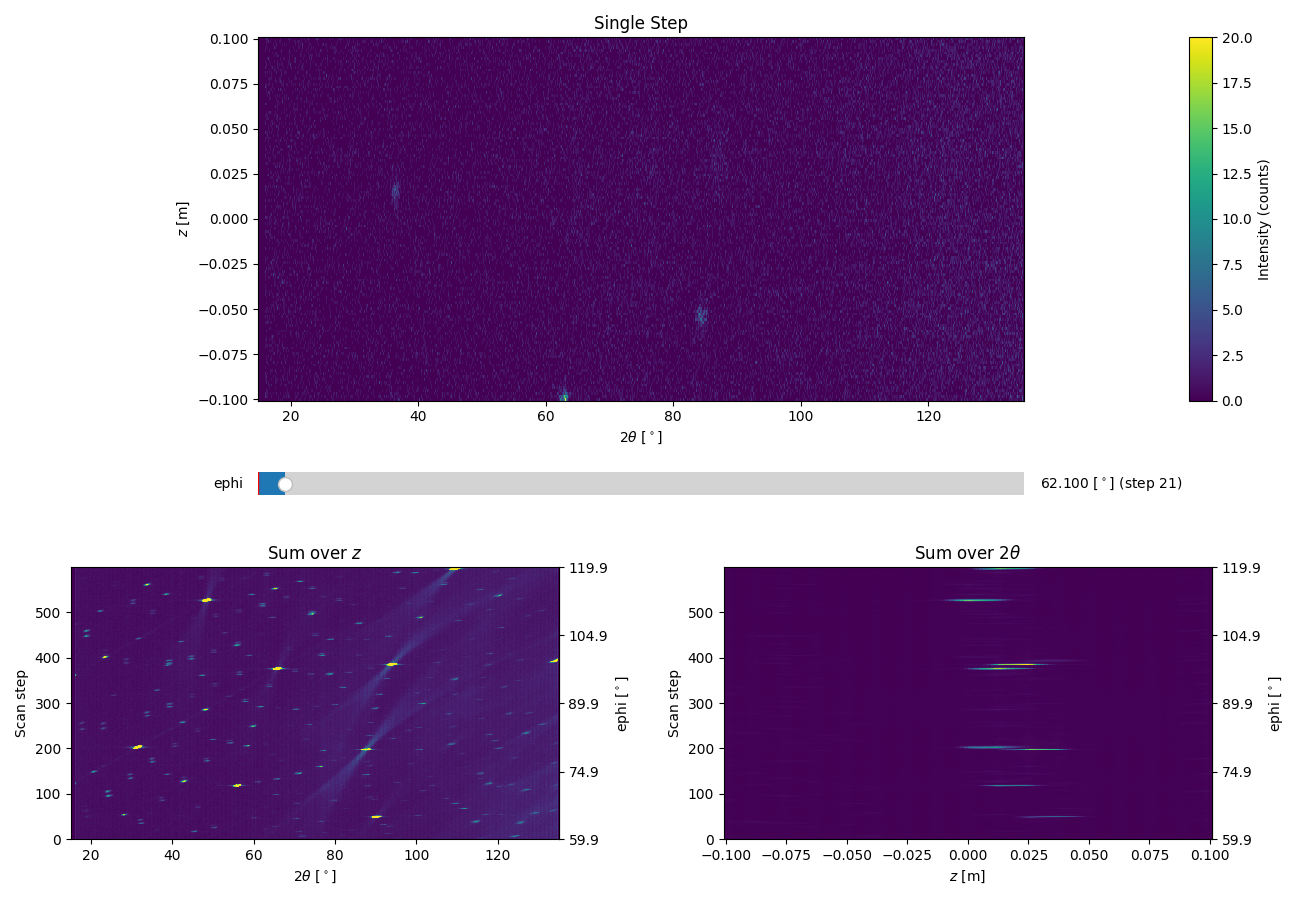
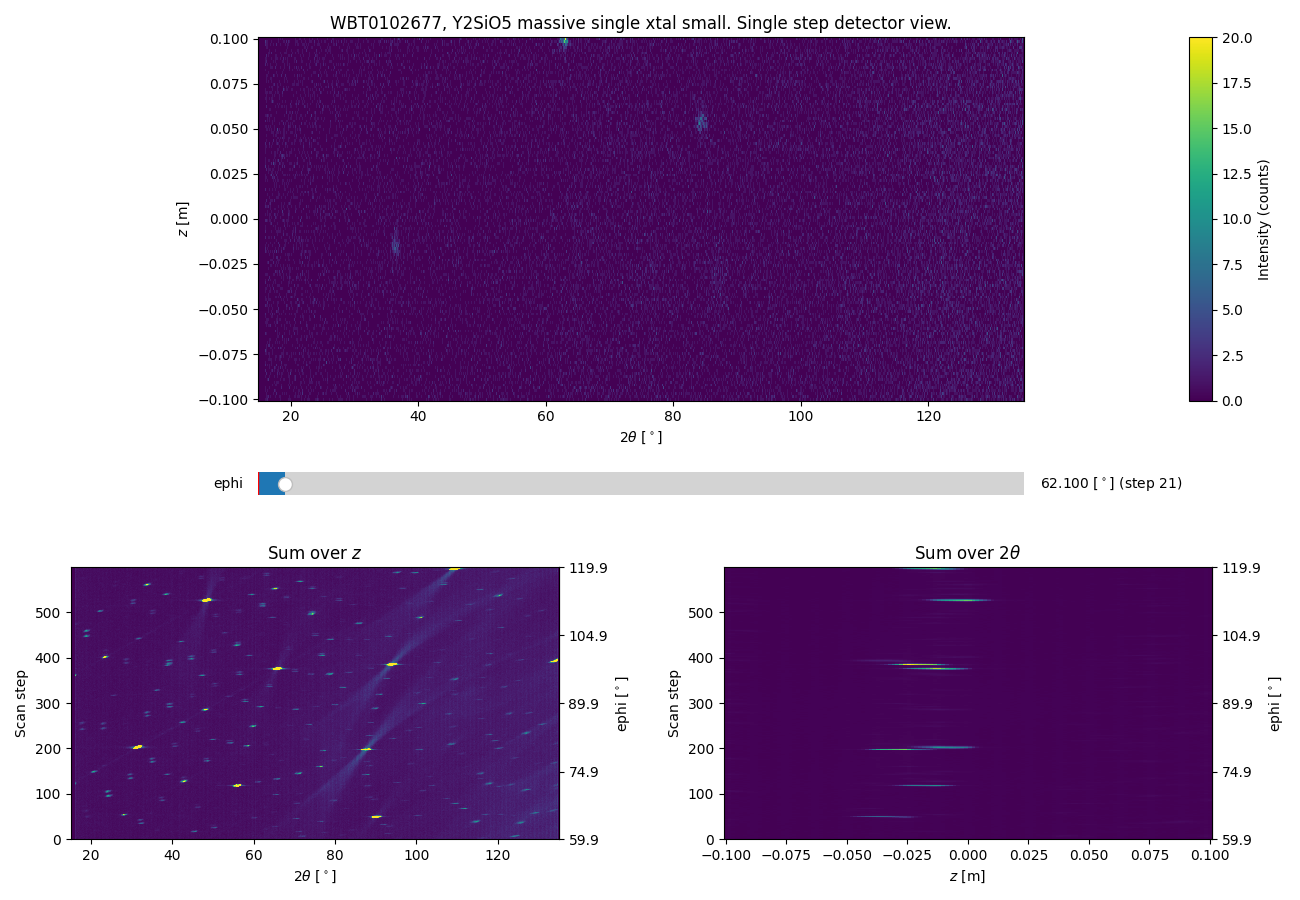
realised xy histogram was being loaded flipped upside down verticallygit add . fixed that (changed definition of z linspace) and added title to interactive detector view plot

diff --git a/wombatDMCpy/WombatDataFile.py b/wombatDMCpy/WombatDataFile.py
@@ -244,6 +244,8 @@ class WombatDataFile(object):
         print()
         print('~~~~~~~ DMCpy x Wombat: loading single crystal data file {0} ~~~~~~~'.format(file))
         self.fileType = 'WombatDataFile'
+        self.hdfFileName = file[-17:-7] 
+        print('HDF file name = {0}'.format(self.hdfFileName))
         self._twoThetaOffset = 0.0
         self._wavelength = wavelength if wavelength is not None else 2.41
         self._Ki = 2*np.pi/wavelength
@@ -299,6 +301,7 @@ class WombatDataFile(object):
             for parameter in HDFTranslation.keys():
                 if parameter in ['unitCell','sample','unitCell','wavelength','verticalPosition']:
                     continue
+
                 if parameter in HDFTranslationAlternatives:
                     for entry in HDFTranslationAlternatives[parameter]:
                         value = np.array(f.get(entry))
@@ -325,6 +328,11 @@ class WombatDataFile(object):
                         value = getattr(value,func)(*args)
                 
                 setattr(self,parameter,value)
+                if parameter == 'sampleName':
+                    print('Sample name = {0} \n'.format(self.sampleName))
+                else:
+                    pass
+                
             
             if self.sampleRotationAxis == 'ephi':
                 self.sample.rotation_angle = 'euler_phi'
@@ -473,7 +481,12 @@ class WombatDataFile(object):
     def verticalPosition(self,twoTheta):
         repeats = self.countShape[1]
         # for Wombat, detector height is 20cm so +- 0.1 m
-        self._verticalPosition = np.linspace(-0.1,0.1,128,endpoint=True)
+        self._verticalPosition = np.linspace(0.1,-0.1,128,endpoint=True)
+        # for wombat:
+        # originally had the linspace starting at -0.1 and finishing at 0.1
+        # as per below line of code
+        # but this meant the detector was flipped vertically!!!!!!
+        #self._verticalPosition = np.linspace(-0.1,0.1,128,endpoint=True)
 
     @property
     def wavelength(self):
@@ -920,7 +933,7 @@ class WombatDataFile(object):
     def InteractiveViewer(self,**kwargs):
         if not self.fileType.lower() in ['singlecrystal','powder'] :
             raise AttributeError('Interactive Viewer can only be used for the new data files. Either for powder or for a single crystal A3 scan')
-        return InteractiveViewer.InteractiveViewer(self.intensity,self.twoTheta,self.pixelPosition,self.A3,scanParameter = 'A3',scanValueUnit=r'$^\circ$',colorbar=True,**kwargs)
+        return InteractiveViewer.InteractiveViewer(self.intensity,self.twoTheta,self.pixelPosition, self.sampleName, self.hdfFileName, scanValues = self.A3, scanParameter = 'A3',scanValueUnit=r'$^\circ$',colorbar=True,**kwargs)
 
     @property
     def correctedTwoTheta(self):
@@ -959,7 +972,7 @@ class SingleCrystalWombatDataFile(WombatDataFile):
         #self.countShape = (self.countShape[0]*self.countShape[1],128,1152) # DMC
         self.countShape = (self.countShape[0]*self.countShape[1],128,968) # Wombat standard resolution
 
-    def calculateHKLToA3A4Z(self,H,K,L,A4Sign=-1):#print=True,A4Sign=-1):
+    def calculateHKLToA3A4Z(self,H,K,L,A4Sign=-1): # Default sign is -1 for DMC. Not sure if this is correct for Wombat
         print('\n(h, k, l) =  ({0}, {1}, {2}) r.l.u.'.format(H,K,L))
         Qx,Qy,Qz = self.sample.calculateHKLToQxQyQz(H,K,L)
         print('(Qx, Qy, Qz) = ({0:.4f}, {1:.4f}, {2:.4f}) AA^-1'.format(Qx, Qy, Qz))

diff --git a/wombat_Y2SiO5_example/UB_Matrix_and_calc_hkl_angles_Y2SiO5.py b/wombat_Y2SiO5_example/UB_Matrix_and_calc_hkl_angles_Y2SiO5.py
@@ -112,7 +112,13 @@ my_reflections_list = [[1,1,0],
                        [2,0,2],
                        [4,0,2],
                        [4,0,6],
-                       [2,0,-4]]
+                       [2,0,-4],
+                       [6,0,-4],
+                       [2,0,-6],
+                       [0,0,6],
+                       [4,0,4],
+                       [0,0,-4],
+                       [10,0,-4]]
 
 # loop to calculate angles for each HKL
 # if angles are all numbers: add to a list which becomes the inital dataframe
@@ -128,9 +134,15 @@ for reflection in my_reflections_list:
         my_reflections_A3A4Z_list.append(reflection_A3A4Z)
 
 my_reflections_dataframe = pd.DataFrame(np.array(my_reflections_A3A4Z_list),
-                                        columns = ['h', 'k', 'l','A3 (deg)','two theta (deg)', 'z (m)'])
+                                        columns = ['h', 'k', 'l','A3 (deg)','A4 (deg)', 'z (m)'])
 for nan_reflection in nan_reflections_list:
     my_reflections_dataframe.loc[len(my_reflections_dataframe)] = nan_reflection
+
+# for whatever mystery reason, 2theta [Wombat] = -A4 [DMC] 
+my_reflections_dataframe['two theta (deg)'] = -my_reflections_dataframe['A4 (deg)']
+
+# sort dataframe by two theta
+my_reflections_dataframe = my_reflections_dataframe.sort_values(by=['two theta (deg)'])
 
 # view the dataframe of reflections and calculated angles 
 print()
@@ -139,6 +151,6 @@ print(my_reflections_dataframe)
 # save dataframe to spreadsheet
 spreadsheet_filename = '{0}_reflections_angles.xlsx'.format(sample_name)
 my_reflections_dataframe.to_excel(spreadsheet_filename, float_format = "%.5f")
-print('\nsaved hkl and angles to {0}'.format(spreadsheet_filename))
+print('\nsaved hkl and angles to {0} \n'.format(spreadsheet_filename))
 
 

diff --git a/wombatDMCpy/InteractiveViewer.py b/wombatDMCpy/InteractiveViewer.py
@@ -5,9 +5,9 @@ import numpy as np
 
 class InteractiveViewer(object):
     """Interactive viewer for 2D detector and 1D scan variable"""
-    def __init__(self,data,twoTheta,pixelPosition,scanValues=None,scanParameter=None,
+    def __init__(self, data, twoTheta, pixelPosition, sampleName, hdfFileName, scanValues=None,scanParameter=None,
                  scanValueFormat=None,scanValueUnit=None,colorbar=False,outputFunction=print,
-                 mainTitle='Single Step',vmin=None,vmax=None, positive2Theta=True,
+                 mainTitle='Single step detector view.',vmin=None,vmax=None, positive2Theta=True,
                  dataLabel = 'Intensity (counts)',axis_1_label=r'Sum over $z$',axis_2_label=r'Sum over 2$\theta$',
                  xlabel=r'2$\theta$ [$^\circ$]',ylabel=r'$z$ [m]',sampleRotationAxis=None,cmap='viridis'):
         """
@@ -72,7 +72,11 @@ class InteractiveViewer(object):
             
         self.cmap = cmap
         self.colorbar = colorbar
-        self.mainTitle = mainTitle
+        #print('hdfFileName')
+        ##print(hdfFileName)
+        #print(type(hdfFileName))
+        #print(self.sampleName)
+        self.mainTitle = hdfFileName + ', ' + sampleName + '. ' + mainTitle
         self.sliderTitle = sampleRotationAxis
         self.xlabel = xlabel
         self.ylabel = ylabel

diff --git a/wombat_Y2SiO5_example/Detector_View_Y2SiO5.py b/wombat_Y2SiO5_example/Detector_View_Y2SiO5.py
@@ -20,7 +20,7 @@ sample_name = 'Y2SiO5'
 # directory where the data are
 data_dir = os.getcwd() + '/Y2SiO5_data/'
 # One file at a time please!!!
-file_name = 'WBT0102677.nx.hdf'
+file_name = 'WBT0102676.nx.hdf'
 # Rotation axis in this case was Euler Phi
 sample_rotation_axis = 'ephi'
 
